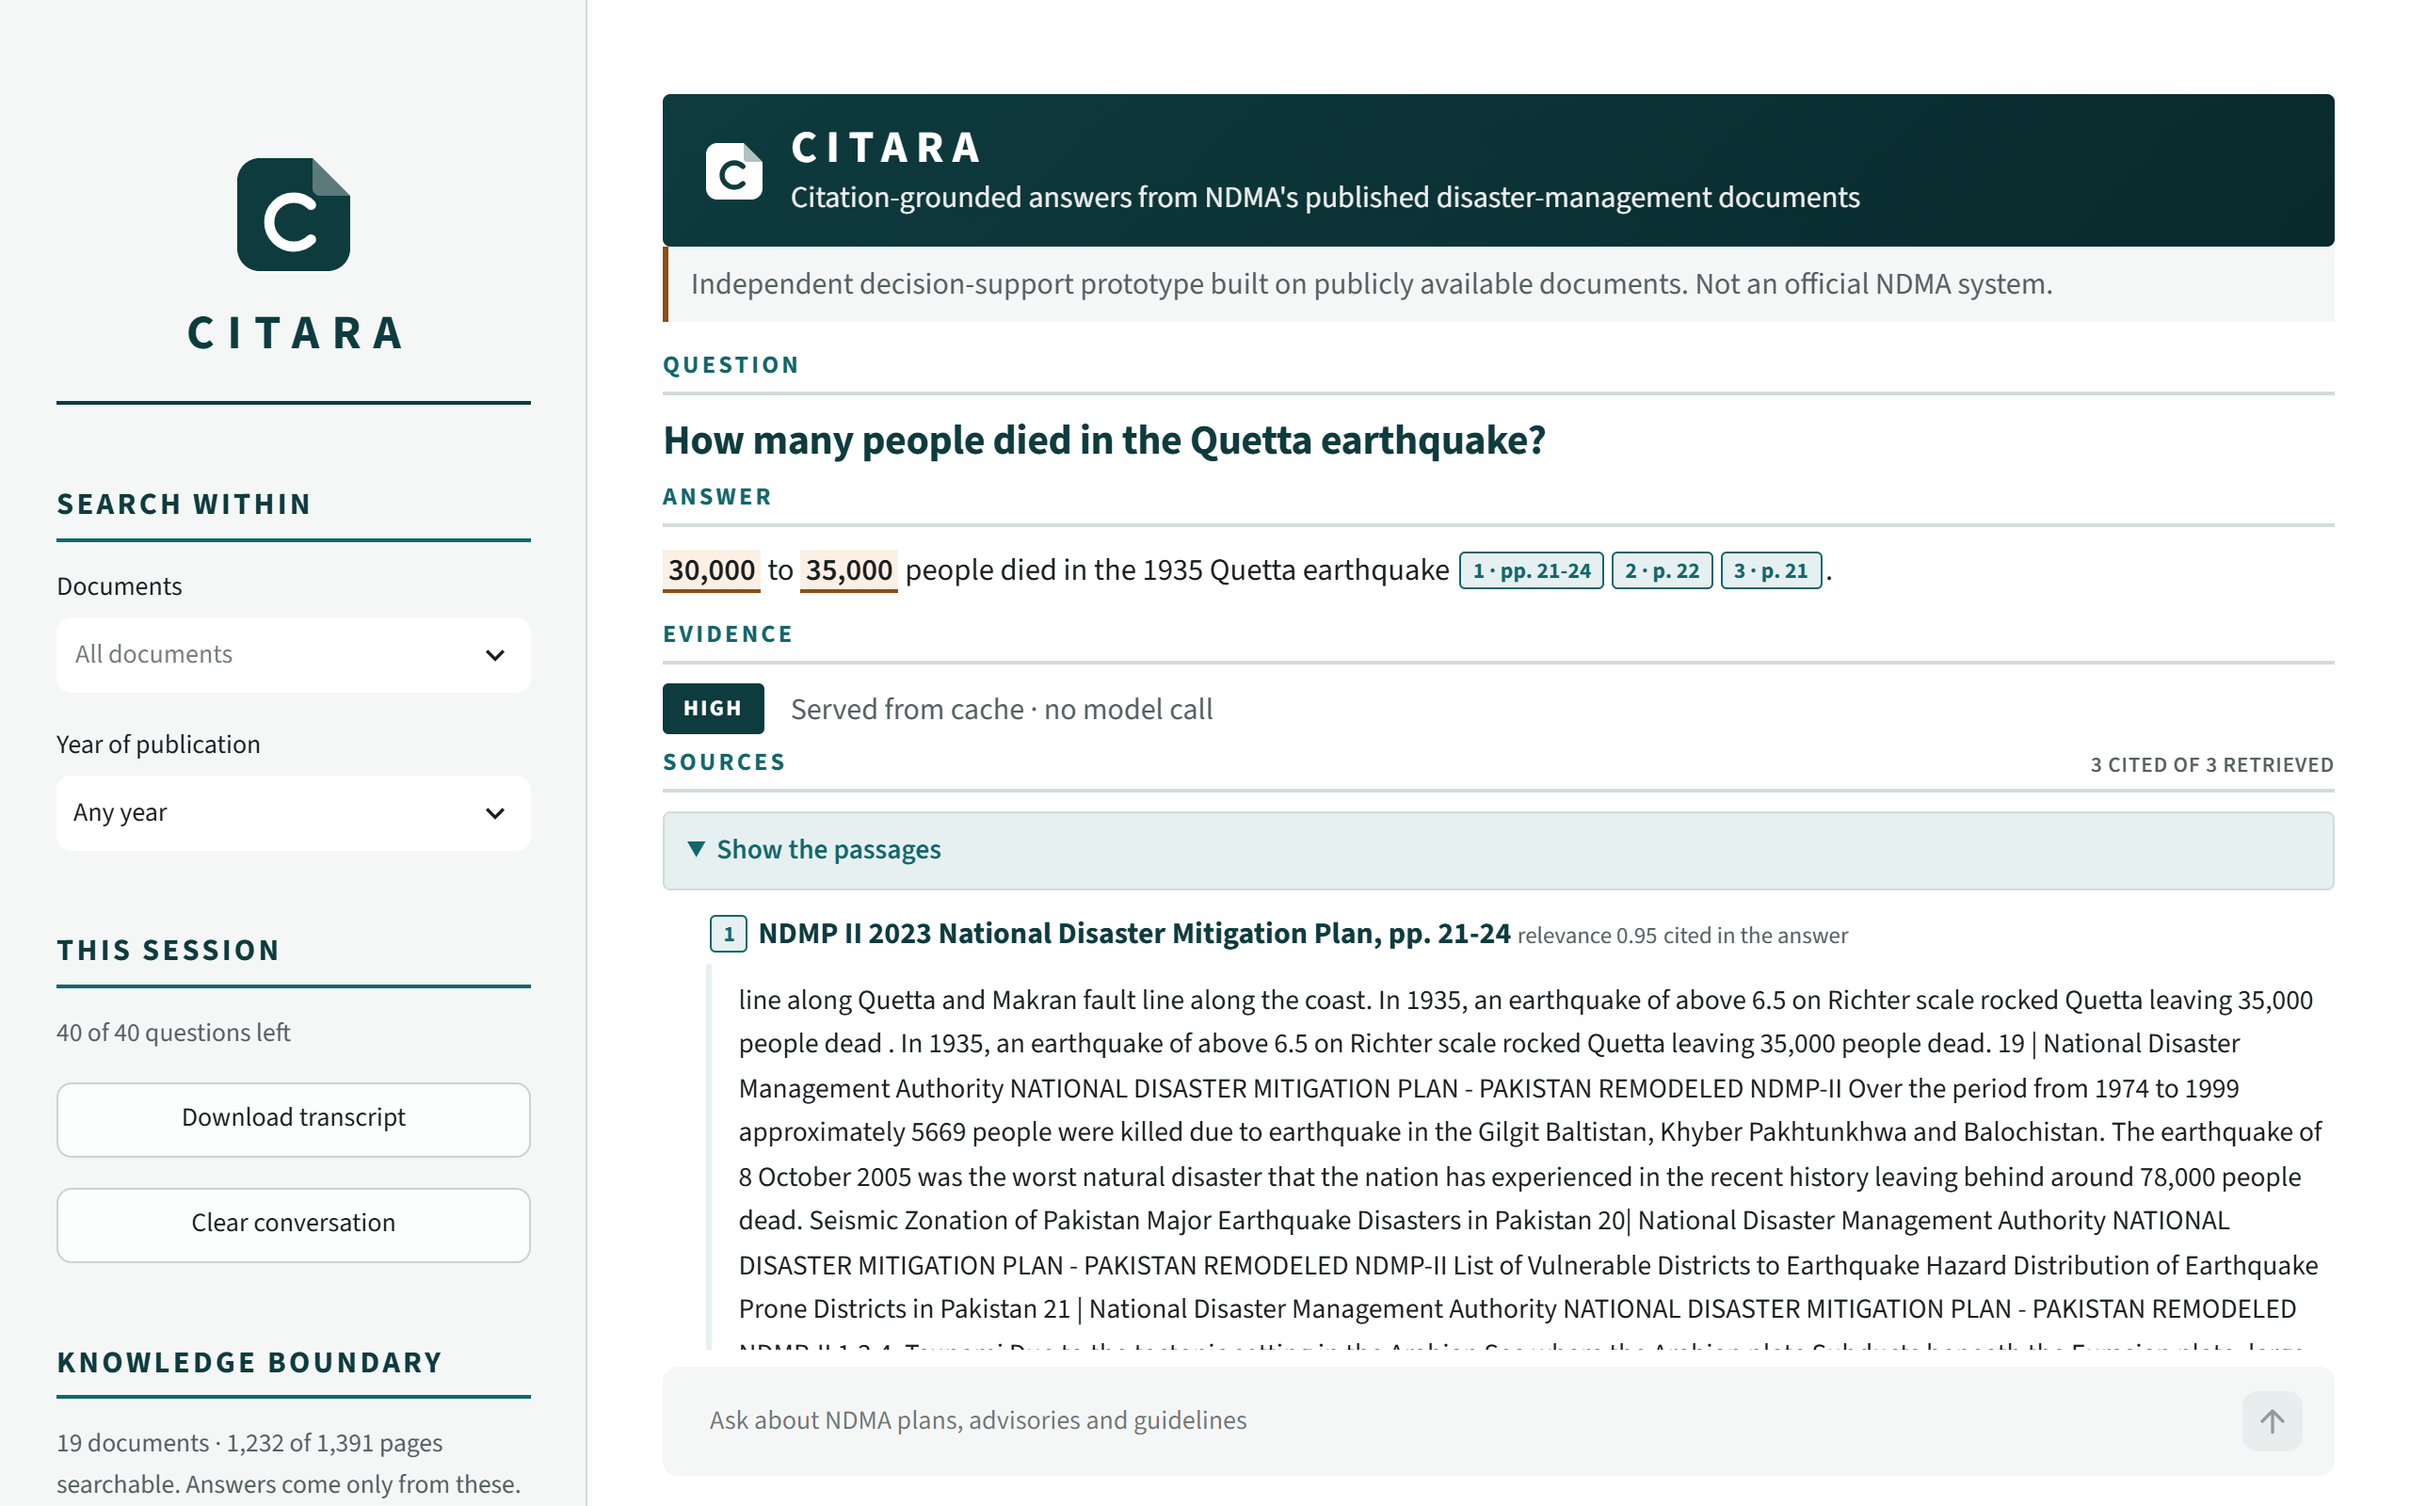
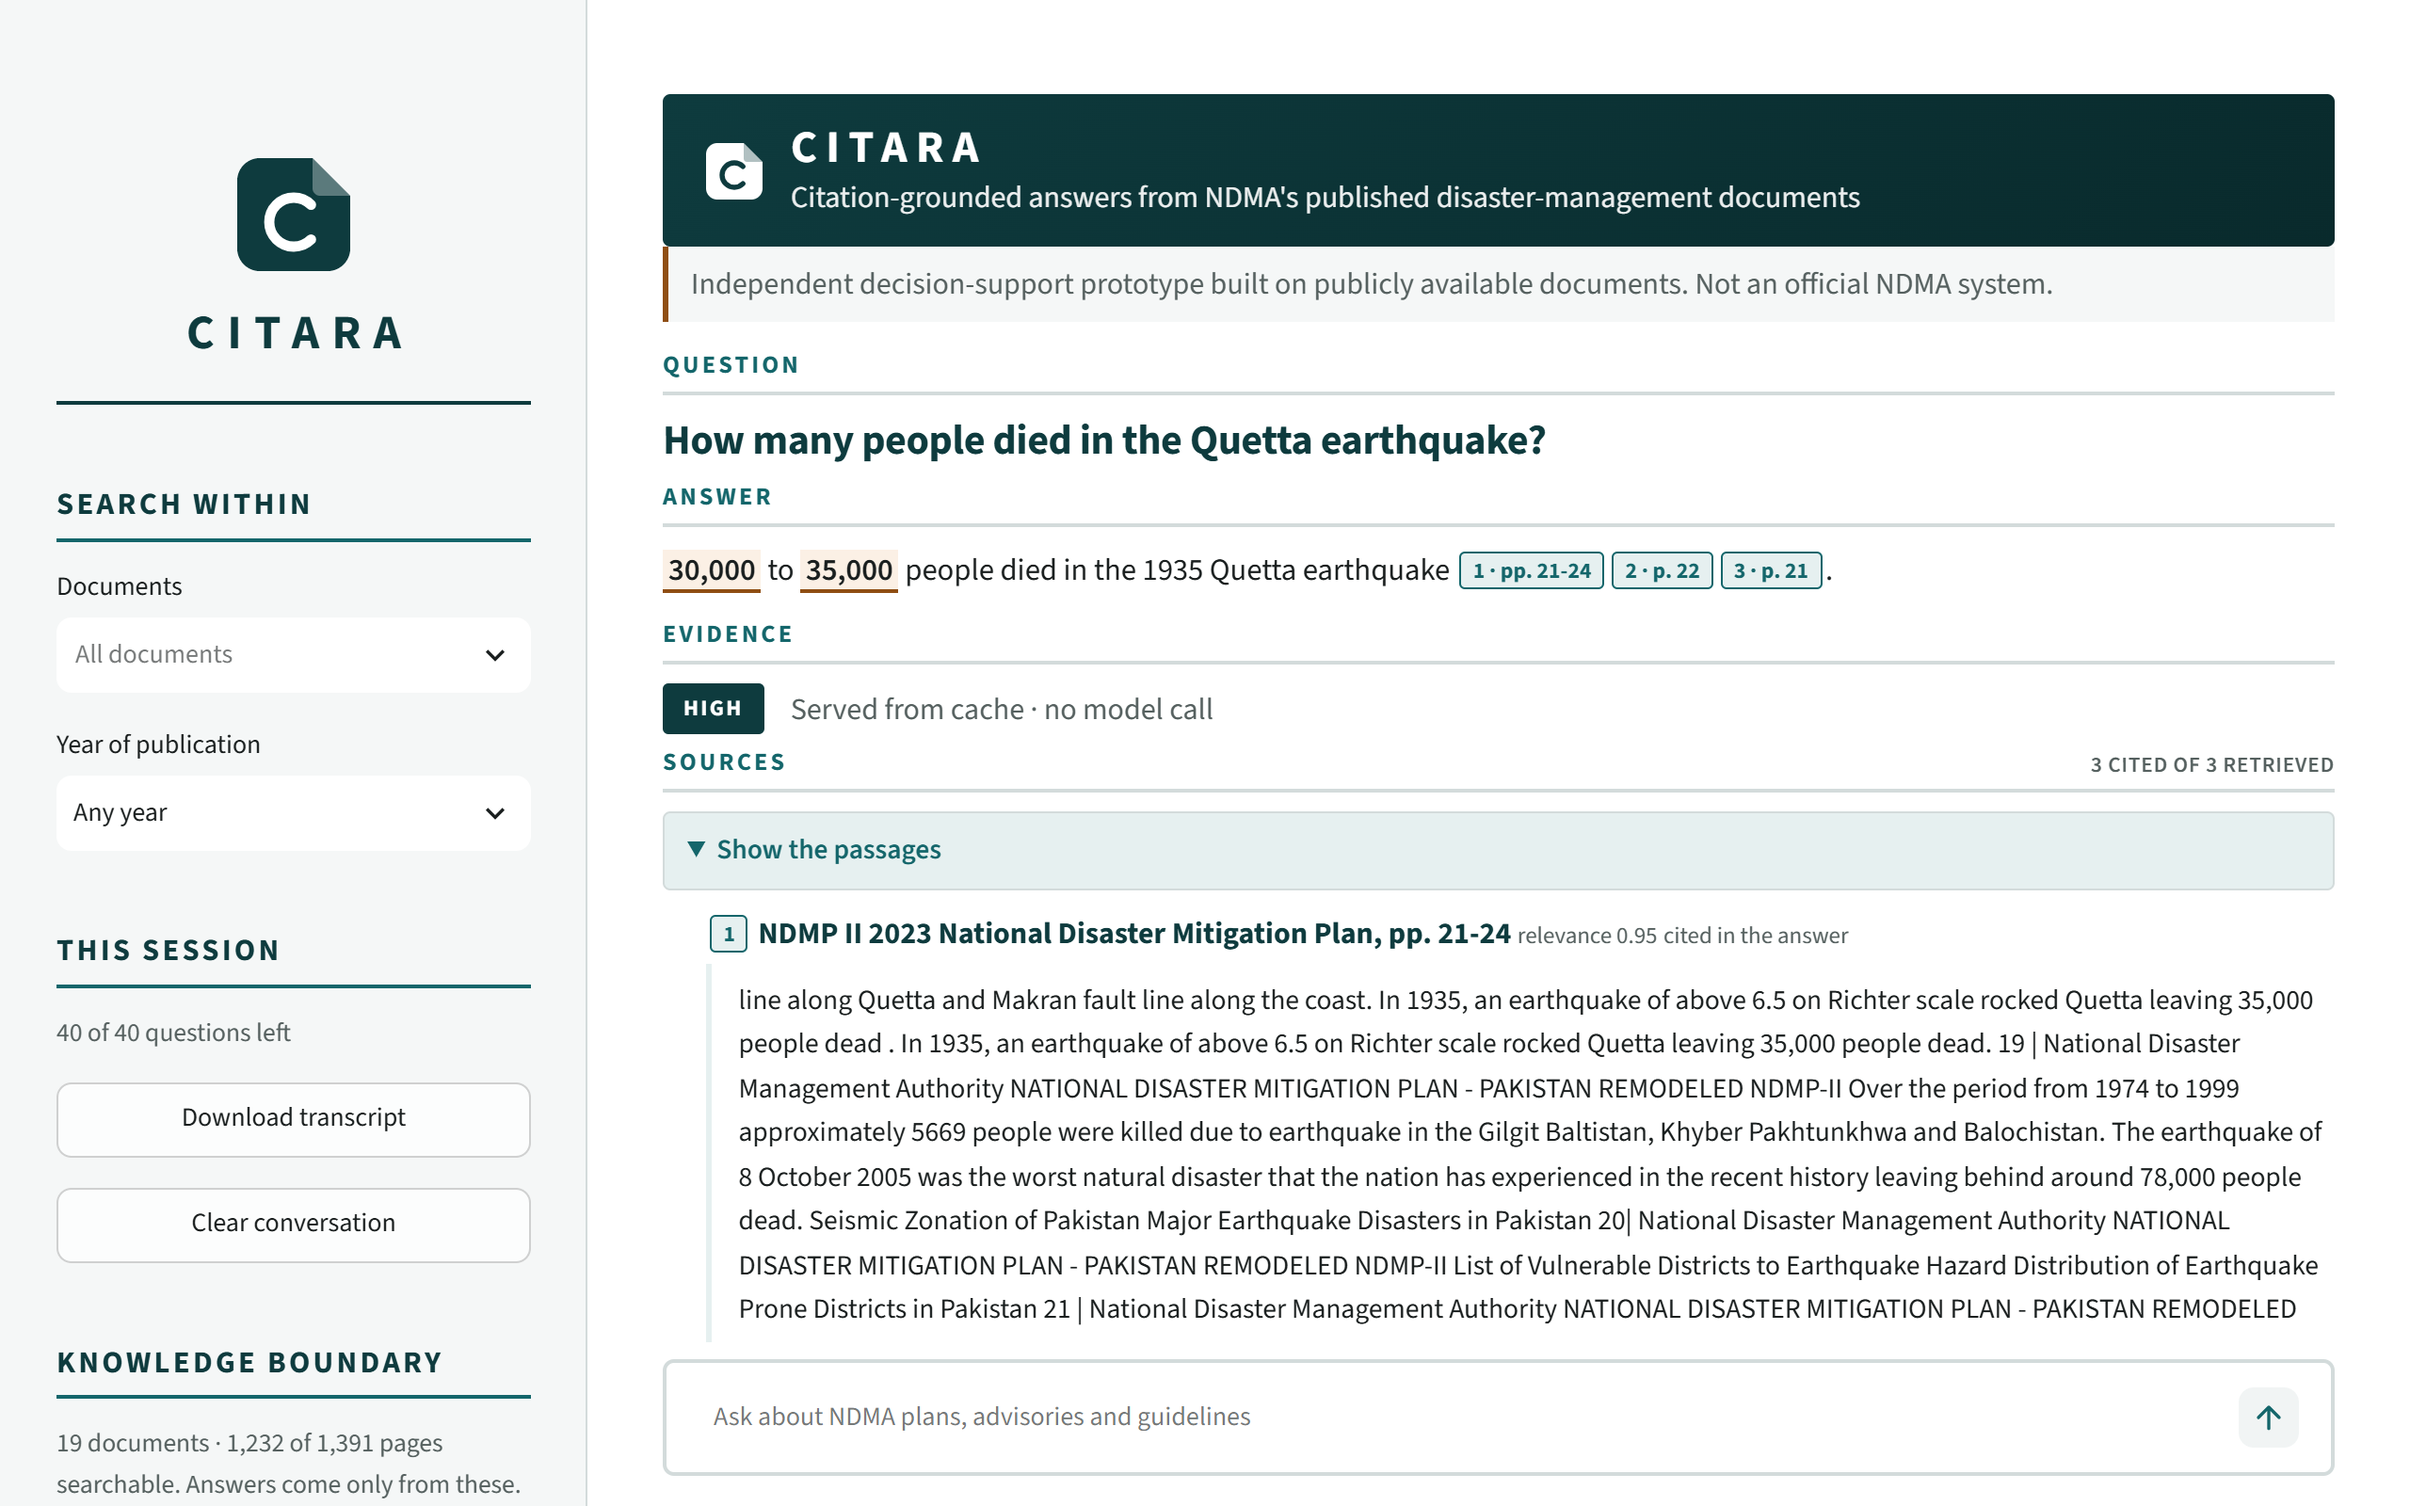
Colour the starter questions by what they will answer, and invite the picker
The four suggested questions read as four identical grey rows, and the caption
above them - the last one shows how the assistant refuses - was the only thing
saying they are not the same. They now carry the colour of the answer they will
give: teal for the three the corpus answers, copper for the refusal, which is
the colour the refusal notice itself uses. The colour is a label, not decoration.

The picker under them is where the interface can say what this corpus answers
while someone is still typing, but it looked like a filter bar and read as page
furniture. It now takes the brand's border and a ring that breathes three times
and then stops - long enough to find, short enough not to nag, and nothing at all
for a reader who has asked for less motion.

The composer is drawn as a field waiting for a question rather than a grey strip
under the page, with a teal send arrow and a focus ring that answers when the
cursor arrives.

Verified at 1366x768: the opening view still fits the window exactly, and
axe-core still reports zero violations across the opening view, a cited answer,
the sources panel open and a refusal on a phone.

diff --git a/src/citara/ui/styles.py b/src/citara/ui/styles.py
@@ -254,15 +254,59 @@ mark.figure {{
 .corpus-list .pages {{ color: {MUTED}; }}
 .corpus-list .gap {{ color: {COPPER}; }}
 
-/* Starter questions read as a list, so they align left; sidebar buttons stay centred. */
+/* -- asking a question ------------------------------------------------------------------- */
+/* Starter questions read as a list, so they align left; sidebar buttons stay centred. Each
+   carries the colour of the answer it will give: teal for the three the corpus answers, and
+   copper - the colour the notices already use - for the fourth, which is the refusal the
+   caption above them promises. The colour is a label, not decoration. */
 [data-testid="stMainBlockContainer"] .stButton button {{
   justify-content: flex-start; text-align: left; white-space: normal;
   min-height: 0; padding-top: 0.42rem; padding-bottom: 0.42rem;
+  color: {TEAL}; background: #FFFFFF;
+  border: 1px solid {BORDER}; border-left: 4px solid {TEAL_MID};
+  transition: background 0.15s ease, border-color 0.15s ease, color 0.15s ease;
+}}
+[data-testid="stMainBlockContainer"] .stButton button:hover {{
+  background: {TEAL_TINT}; border-color: {TEAL_MID}; border-left-color: {TEAL}; color: {TEAL_DEEP};
+}}
+[data-testid="stMainBlockContainer"] .st-key-starter-3 button {{
+  color: {COPPER}; border-left-color: {COPPER};
+}}
+[data-testid="stMainBlockContainer"] .st-key-starter-3 button:hover {{
+  background: {COPPER_TINT}; border-color: {COPPER}; color: #6E3C0F;
 }}
 [data-testid="stMainBlockContainer"] .stButton button > div {{
   justify-content: flex-start; width: 100%;
 }}
-[data-testid="stMainBlockContainer"] .stButton button p {{ text-align: left; }}
+[data-testid="stMainBlockContainer"] .stButton button p {{
+  text-align: left; color: inherit; font-weight: 600;
+}}
+
+/* The picker is the only place the interface can say what this corpus answers while someone
+   is still typing, and it looks like a filter bar until it is noticed. Given the brand's own
+   border and a ring that breathes three times and then stops - long enough to find, short
+   enough not to nag, and nothing at all for a reader who asks for less motion. */
+[data-testid="stMainBlockContainer"] .react-aria-ComboBox > div {{
+  border: 2px solid {TEAL_MID}; border-radius: 8px; background: #FFFFFF;
+  animation: citara-invite 2.1s ease-out 3;
+}}
+@keyframes citara-invite {{
+  0%, 100% {{ box-shadow: 0 0 0 0 rgba(20, 102, 107, 0); }}
+  45% {{ box-shadow: 0 0 0 5px rgba(20, 102, 107, 0.16); }}
+}}
+
+/* The composer is where a question actually goes, so it is drawn as a field waiting for one
+   rather than a grey strip under the page, and it answers when the cursor arrives. */
+[data-testid="stChatInput"],
+[data-testid="stChatInput"] > div {{ background: #FFFFFF; }}
+[data-testid="stChatInput"] {{
+  border: 2px solid {BORDER}; border-radius: 6px;
+  transition: border-color 0.15s ease, box-shadow 0.15s ease;
+}}
+[data-testid="stChatInput"]:focus-within {{
+  border-color: {TEAL_MID}; box-shadow: 0 0 0 3px rgba(20, 102, 107, 0.14);
+}}
+[data-testid="stChatInputSubmitButton"] {{ color: {TEAL_MID}; }}
 
 @media (max-width: 640px) {{
   /* The top bar holding the sidebar toggle overlays the page on a phone, so the brand bar
